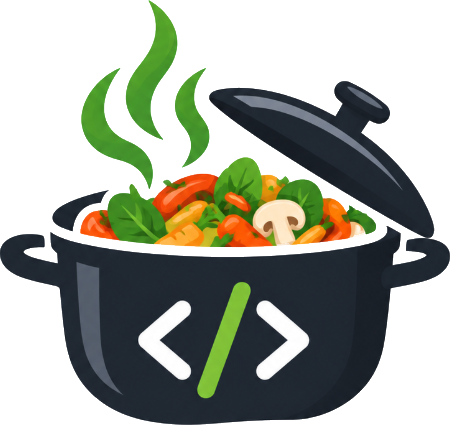
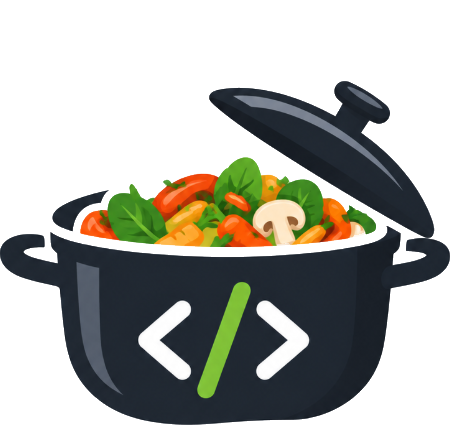
style: animate hero steam so it wiggles behind the sticker

Changed region(s): [[0.1556, 0.0, 0.4044, 0.4588], [0.3733, 0.1529, 0.4667, 0.3976]]

diff --git a/static/css/style.css b/static/css/style.css
@@ -223,6 +223,7 @@ h1 {
 /* The pot and the "Reci.py" words are two images so only the pot moves */
 .pot-wrap {
     position: relative;
+    z-index: 2;
     width: 73%;
     margin: 0 auto;
     transform-origin: 50% 95%;
@@ -245,22 +246,34 @@ h1 {
     margin-top: 6px;
 }
 
-/* Soft puffs of steam rising out of the pot */
-.steam {
+/* The three green steam wisps wiggle like worms.
+   Each wisp is made of 40 thin strips (see index.html). Every strip sways
+   left and right a little later than the one below it, so a wave travels
+   up the steam. The whole wisp also drifts up and fades a little. */
+.wisp {
     position: absolute;
-    top: 30%;
-    width: 34px;
-    height: 34px;
-    border-radius: 50%;
-    background: rgba(107, 91, 77, 0.22);
-    filter: blur(6px);
-    opacity: 0;
-    animation: steam-rise 3s ease-out infinite;
+    display: flex;
+    flex-direction: column;
+    pointer-events: none;
+    animation: wisp-rise 2.4s ease-in-out infinite alternate;
 }
 
-.steam-1 { left: 26%; animation-delay: 0s; }
-.steam-2 { left: 38%; animation-delay: 1s; }
-.steam-3 { left: 50%; animation-delay: 2s; }
+.wisp span {
+    flex: 1;
+    background-repeat: no-repeat;
+    background-size: 100% 4000%;
+    background-position: 0 calc(var(--i) * 100% / 39);
+    animation: wisp-wiggle 1.1s ease-in-out infinite alternate;
+    animation-delay: calc(var(--i) * -0.04s);
+}
+
+.wisp-1 { left: 17.56%; top: 15.53%; width: 16.89%; aspect-ratio: 76 / 125; }
+.wisp-2 { left: 27.33%; top: 0; width: 12.67%; aspect-ratio: 57 / 142; animation-delay: -0.8s; }
+.wisp-3 { left: 38.44%; top: 15.53%; width: 8.67%; aspect-ratio: 39 / 104; animation-delay: -1.5s; }
+
+.wisp-1 span { background-image: url("../images/reci_py_steam_1.png"); }
+.wisp-2 span { background-image: url("../images/reci_py_steam_2.png"); animation-duration: 1.3s; }
+.wisp-3 span { background-image: url("../images/reci_py_steam_3.png"); animation-duration: 0.95s; }
 
 /* Slowly rock back and forth */
 @keyframes pot-rock {
@@ -274,25 +287,32 @@ h1 {
     to { transform: translateY(-3px) scaleY(1.015); }
 }
 
-@keyframes steam-rise {
-    0% { transform: translateY(0) scale(0.6); opacity: 0; }
-    25% { opacity: 1; }
-    100% { transform: translateY(-110px) scale(1.8); opacity: 0; }
+@keyframes wisp-wiggle {
+    from { transform: translateX(-14%); }
+    to { transform: translateX(14%); }
+}
+
+@keyframes wisp-rise {
+    from { transform: translateY(4px); opacity: 0.7; }
+    to { transform: translateY(-14px); opacity: 1; }
 }
 
 /* Switch the animation off for people who ask for less motion */
 @media (prefers-reduced-motion: reduce) {
     .pot-wrap,
     .hero-pot,
-    .steam {
+    .wisp,
+    .wisp span {
         animation: none;
     }
 }
 
 /* The sticker stays on one line and shrinks with the logo,
-   so it never wraps and covers the pot on smaller screens */
+   so it never wraps and covers the pot on smaller screens.
+   It sits in front of the pot, so the steam rises up behind it */
 .hero-sticker {
     position: absolute;
+    z-index: 3;
     top: 0;
     left: -6px;
     background: var(--butter);

diff --git a/core/templates/core/index.html b/core/templates/core/index.html
@@ -27,12 +27,16 @@
             <div class="col-12 col-md-5">
                 <div class="hero-art">
                     <div class="pot-wrap">
-                        <span class="steam steam-1" aria-hidden="true"></span>
-                        <span class="steam steam-2" aria-hidden="true"></span>
-                        <span class="steam steam-3" aria-hidden="true"></span>
                         <img class="hero-pot" src="{% static 'images/reci_py_pot.png' %}"
                             alt="A cooking pot full of vegetables with a code symbol on the front"
                             width="450" height="425">
+                        {# The three green steam wisps wiggle like worms: each one is cut into thin
+                           strips that sway one after another, so a wave travels up the steam #}
+                        {% for wisp in "123" %}
+                        <div class="wisp wisp-{{ wisp }}" aria-hidden="true">
+                            {% for strip in "abcdefghijklmnopqrstuvwxyzABCDEFGHIJKLMN" %}<span style="--i: {{ forloop.counter0 }}"></span>{% endfor %}
+                        </div>
+                        {% endfor %}
                     </div>
                     <img class="hero-wordmark" src="{% static 'images/reci_py_wordmark.png' %}"
                         alt="Reci.py – Simple recipes, healthy meals, for coders" width="618" height="286">
